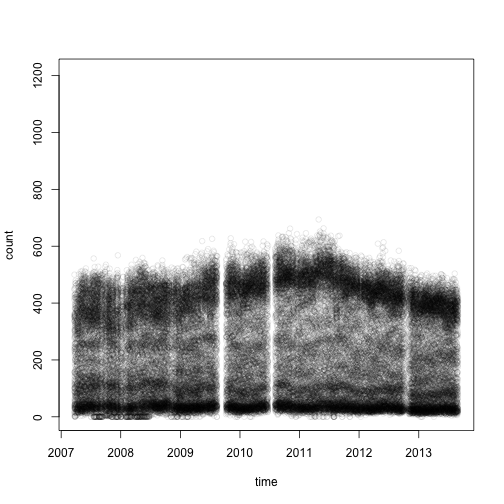
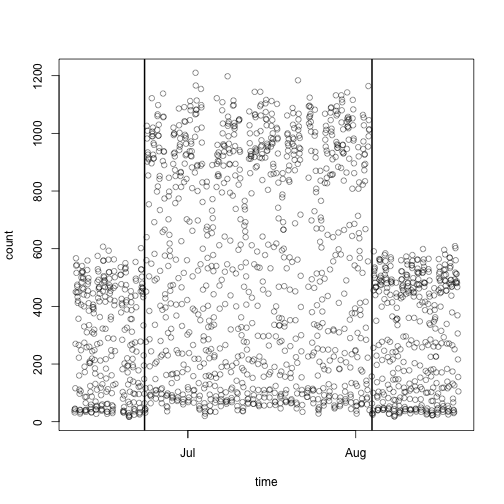
discovered sensor failure patterns around Santa Rosa

diff --git a/project/santarosa/santarosa.md b/project/santarosa/santarosa.md
@@ -16,12 +16,17 @@ library(knitr)
 # semitransparent plotting with alpha
 library(scales)
 
+# ANOVA model
+library(lme4)
+
 # tested helper functions
 source('../functions.R')
 
 # contains the `fastrak` data frame with 8 million rows
 load('../fastrak.Rda')
 ```
+
+## Preparation
 
 Here is the data of interest.
 
@@ -57,30 +62,28 @@ have missing data encoded as 0's.
 period. This is extremely unlikely if the toll was operational.
 
 We can fix this by identifying the runs of 3 or more zeros and changing the
-corresponding counts to NA. 
+corresponding counts to NA. When we did this we saw huge negative
+residuals when models were fitted. The more conservative thing to do is
+transform all the zeros to NA.
 
 
 ```r
-# Before:
-sum(is.na(sr1$count))
+sr1$count[sr1$count == 0] = NA
 ```
 
-```
-## [1] 0
-```
 
 ```r
-# Using custom function
-zr1 = zerorun(sr1$count, 3)
-
-sr1$count[zr1] = NA
-
-# After:
-sum(is.na(sr1$count))
-```
-
-```
-## [1] 3969
+# Didn't really work:
+## Before:
+#sum(is.na(sr1$count))
+#
+## Using custom function
+#zr1 = zerorun(sr1$count, 3)
+#
+#sr1$count[zr1] = NA
+#
+## After:
+#sum(is.na(sr1$count))
 ```
 
 So this eliminates about 4000 points.
@@ -101,7 +104,7 @@ endbig = as.POSIXct('2010-08-04')
 abline(v=c(startbig, endbig), lwd=2)
 ```
 
-![plot of chunk unnamed-chunk-4](figure/unnamed-chunk-4-1.png) 
+![plot of chunk unnamed-chunk-5](figure/unnamed-chunk-5-1.png) 
 
 ```r
 # Transform to NA's
@@ -116,5 +119,122 @@ Let's inspect the data to see the effect of the cleaning.
 with(sr1, plot(time, count, col=alpha('black', 0.1)))
 ```
 
-![plot of chunk unnamed-chunk-5](figure/unnamed-chunk-5-1.png) 
+![plot of chunk unnamed-chunk-6](figure/unnamed-chunk-6-1.png) 
 
+This looks much more reasonable.
+
+How much of the data is now missing?
+
+
+```r
+sum(is.na(sr1$count) / length(sr1$count))
+```
+
+```
+## [1] 0.07617854
+```
+
+About 7.2 percent. We also know that these missing values come in long
+runs. Exactly how large are the largest runs?
+
+
+```r
+narun = rle(is.na(sr1$count))
+max(narun$length[!narun$values])
+```
+
+```
+## [1] 3885
+```
+
+So we have a run of nearly 4000. We can work with that. We also need to
+make sure that the hourly observations are complete. Let's visualize to see
+where these are.
+
+
+
+
+## Trend and Seasonality
+
+Now that the suspicious data has been recoded to NA we are in a position to
+remove the trend and seasonality. We'll do it through estimation of the
+mean using the following ANOVA model:
+
+$$
+    \sqrt(count) = year + month + weekday + hour + weekday:hour + \epsilon
+$$
+
+This removes yearly trend and seasonality at 3 levels: month, weekday, and
+hour.
+
+
+```r
+fit1 = lm(sqrt(count) ~ year + month + weekday*hour, sr1)
+kable(anova(fit1))
+```
+
+
+
+|             |    Df|     Sum Sq|      Mean Sq|    F value| Pr(>F)|
+|:------------|-----:|----------:|------------:|----------:|------:|
+|year         |     6|   32406.22|  5401.036233|  1815.7114|      0|
+|month        |    11|   10716.11|   974.191986|   327.5022|      0|
+|weekday      |     6|   78694.98| 13115.829871|  4409.2579|      0|
+|hour         |    23| 1731382.49| 75277.499725| 25306.6647|      0|
+|weekday:hour |   138|   71755.89|   519.970207|   174.8027|      0|
+|Residuals    | 50688|  150777.12|     2.974612|         NA|     NA|
+
+```r
+sr1$predicted = predict(fit1, sr1)
+sr1$residuals = sqrt(sr1$count) - sr1$predicted
+```
+
+Take a look at the residuals.
+
+
+```r
+a = as.POSIXct('2011-03-10')
+b = as.POSIXct('2011-03-30')
+ab = (a < sr1$time) & (sr1$time < b)
+with(sr1[ab, ], plot(time, residuals, type='l'))
+```
+
+![plot of chunk unnamed-chunk-11](figure/unnamed-chunk-11-1.png) 
+
+We get some huge negative numbers. I'll bet that's because March 17th had a
+zero for an NA value which was not removed. So we probably need to remove
+all the zeros!
+
+Still see a bunch of unusually low values when all zeros are removed. My
+suspicion is that the sensor stopped working for a short period of time.
+Then picked back up again. So what we actually need to do is code as NA all
+those points that are on the border of the zeros as well. Because the
+sensor wasn't totally functioning at that hour.
+
+
+```r
+with(sr1, plot(time, residuals, col=alpha('black', 0.1)))
+abline(h=0, col='yellow', lwd=2)
+```
+
+![plot of chunk unnamed-chunk-12](figure/unnamed-chunk-12-1.png) 
+
+Looks like icicles hanging off the data centered around 0.
+
+Let's see if we get anything reasonable from the ACF. The data isn't
+exactly equi-spaced, but it's not too far off either.
+
+
+```r
+acf(sr1$residuals[(sr1$year == 2011) & !(is.na(sr1$residuals))])
+```
+
+![plot of chunk unnamed-chunk-13](figure/unnamed-chunk-13-1.png) 
+
+```r
+pacf(sr1$residuals[(sr1$year == 2011) & !(is.na(sr1$residuals))])
+```
+
+![plot of chunk unnamed-chunk-13](figure/unnamed-chunk-13-2.png) 
+
+Looks like there's lots here for further analysis.
